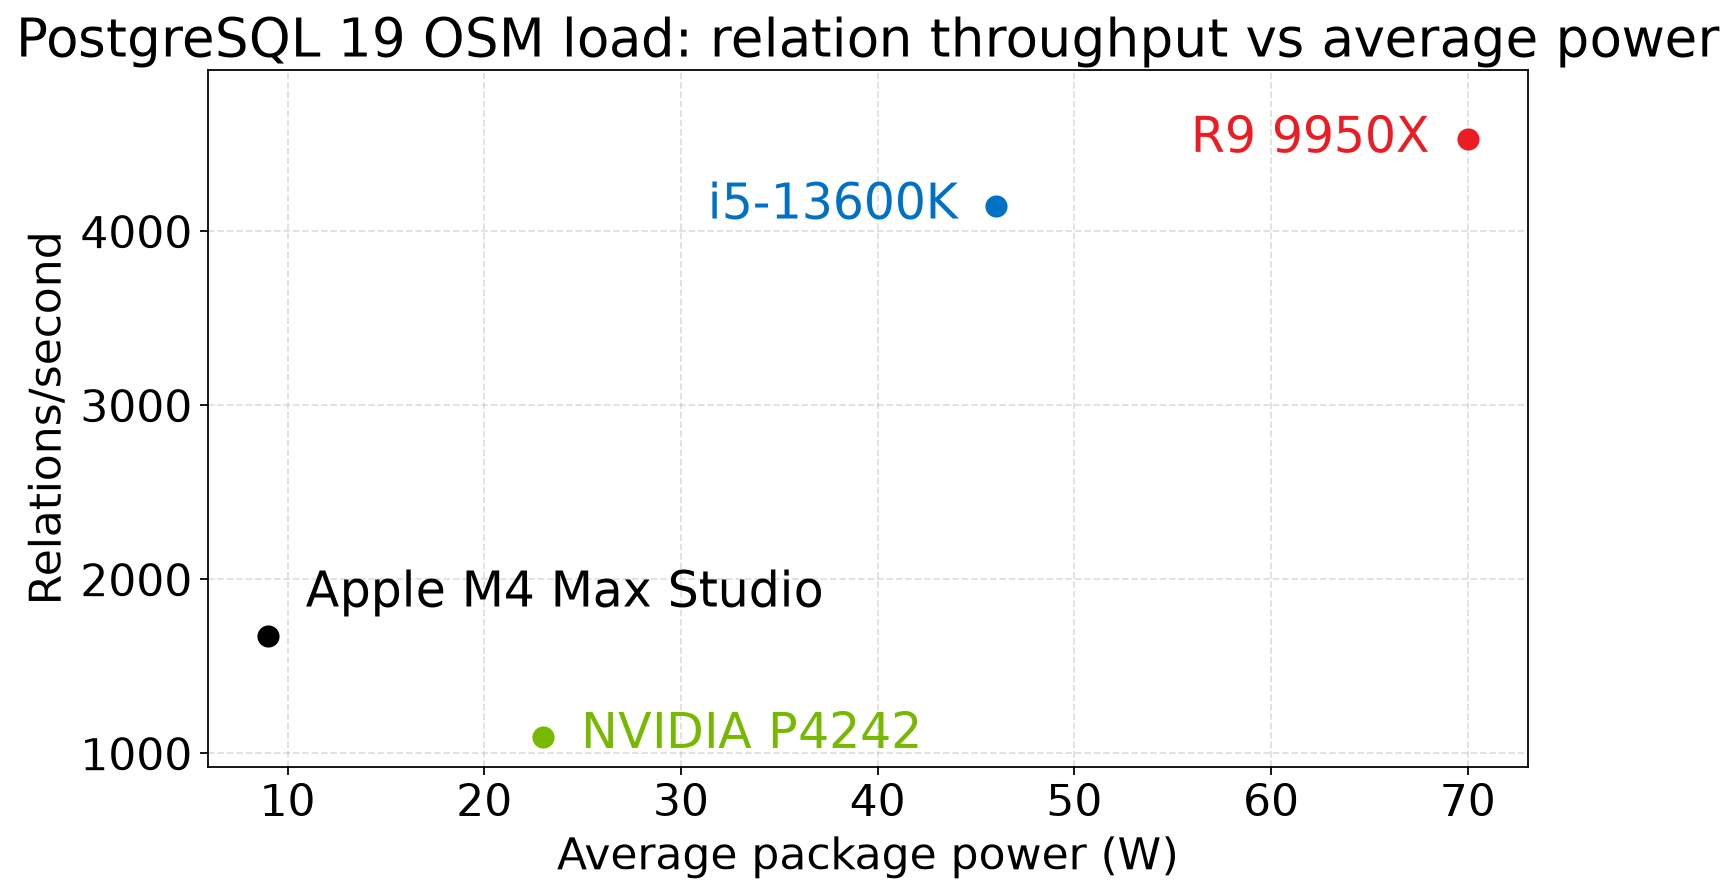
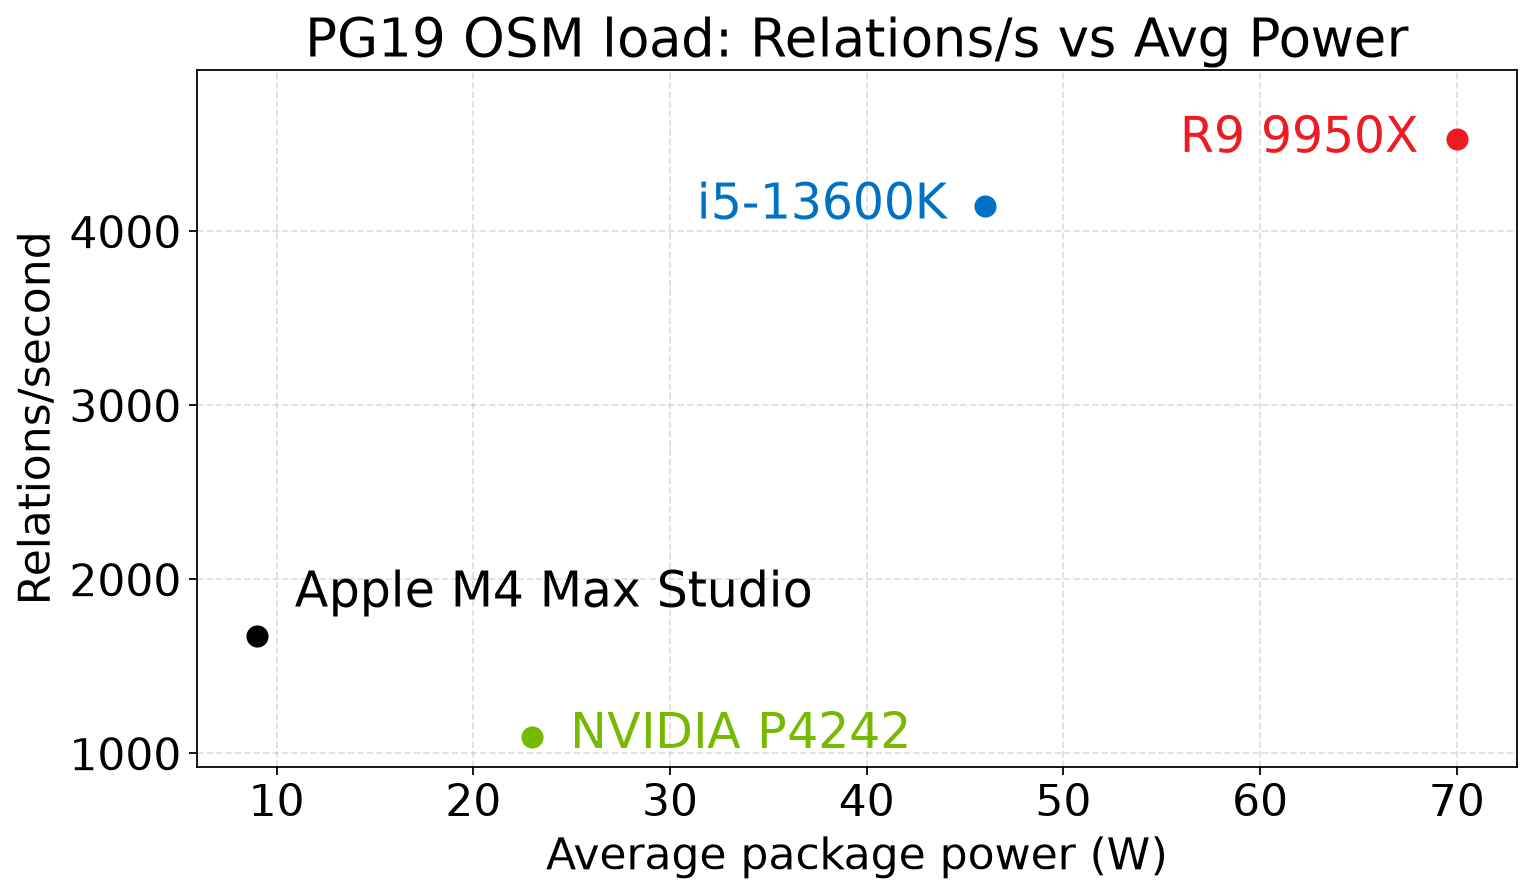
Shorten OSM relation scatter titles to Relations/s vs Avg Power.

diff --git a/reports/osm-relation-power.py b/reports/osm-relation-power.py
@@ -149,12 +149,12 @@ def relation_titles(pg: str) -> tuple[str, str, str]:
     if pg == "18":
         return (
             "PostgreSQL 16-17 OSM load: relation phase efficiency",
-            "PostgreSQL 16-18 OSM load: relation throughput vs average power",
+            "PG16-18 OSM load: Relations/s vs Avg Power",
             "PG16-18 OSM load: Relations/s vs Energy",
         )
     return (
         f"PostgreSQL {pg} OSM load: relation phase efficiency",
-        f"PostgreSQL {pg} OSM load: relation throughput vs average power",
+        f"PG{pg} OSM load: Relations/s vs Avg Power",
         f"PG{pg} OSM load: Relations/s vs Energy",
     )
 
